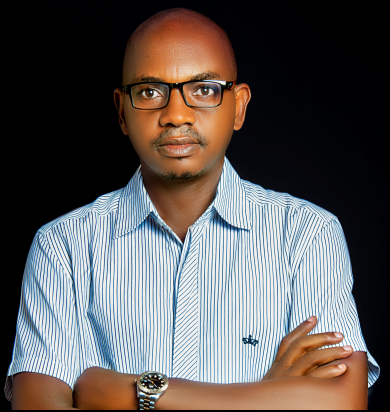
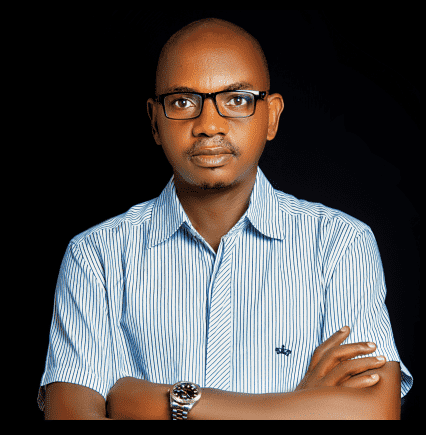
updated

diff --git a/index.html b/index.html
@@ -3,10 +3,11 @@
 <head>
     <meta charset="utf-8">
     <meta name="viewport" content="width=device-width,initial-scale=1.0">
-    <title>WDD 131 - Dynamic Web Fundamentals -<p style="color:yellow;">Charles Hemedi</p></title>
+    <title>WDD 131 - Dynamic Web Fundamentals -Charles Hemedi</title>
     <meta name="description" content="WDD 131 - Dynamic Web Fundamentals-Charles Hemedi">
     <meta name="author" content="Charles Hemedi">
     <link rel="stylesheet" href="styles/base.css">
+    <script src="scripts/getdates.js" defer></script>
 </head>
 <body>
 
@@ -26,7 +27,7 @@
     <main>
         <div class="container">
               <div id="section">
-                <Section class="card">
+                <section class="card">
                     <h2>About me</h2>
                     <div class="part1">
                     <img src="images/wdd131.png" width="150" height="150" alt="my-profile">
@@ -36,6 +37,7 @@
                     </div>
                     <div class="part2">
                     <h3>Charles, Burundi</h3>
+                    <hr>
                     <img src="images/flag.png" width="150" height="150" alt="my-profile">
                 </div>
                    
@@ -43,11 +45,11 @@
                         magni in minus illum doloremque consectetur omnis unde autem libero 
                         tenetur nostrum amet? Numquam dolores praesentium earum sunt consequatur ducimus?</p>
                 
-                </Section>
+                </section>
                 
             </div>
               <div id="section1">
-                    <Section class="card1">
+                    <section class="card1">
                         <h2>Web Dev Tools</h2>
                         <ul>
                             <li><a href="#">Dev.to Community</a></li>
@@ -58,7 +60,7 @@
                             <li><a href="#">Lorem Picsum Image Placeholder</a></li>
                         </ul>
                        
-                    </Section>
+                    </section>
               </div
 
         </div>
@@ -66,8 +68,9 @@
     </main>
 
     <footer class="footer">
-        <p>&#169 <span id="currentyear"></span> Charles Hemedi-Burundi</p>
+        <p><span id="copyrightYear"></span>  &#9733;Charles Hemedi &#9733;Burundi</p>
         <p id="lastModified"></p>
+        <p id="lastModifiedDate"></p>
     </footer>
 
 

diff --git a/styles/base.css b/styles/base.css
@@ -1,7 +1,32 @@
+@import url("https://fonts.googleapis.com/css2?family=Fondamento:ital@0;1&family=Roboto+Mono:ital,wght@0,100..700;1,100..700&family=Tangerine:wght@400;700&display=swap");
+@import url("https://fonts.googleapis.com/css2?family=Quicksand:wght@300..700&display=swap");
+
+:root {
+  --primary-color: #381d2a;
+  --secondary-color: #396e94;
+  --accent1-color: #a43312;
+  --accent2-color: #e7c24f;
+
+  --heading-font: "Quicksand", serif;
+  --paragraph-font: "Muli", serif;
+
+  --nav-background-color: #283618;
+  --nav-link-color: #606c38;
+  --nav-hover-link-color: #1d3557;
+  --nav-hover-background-color: #e5e5e5;
+}
+
 body {
   box-sizing: border-box;
-  max-width: 1000px;
+  max-width: 900px;
   text-align: center;
+  /* font-family: "Fondamento", cursive; */
+  /* font-weight: 400; */
+  /* font-style: normal; */
+  font-family: "Quicksand", sans-serif;
+  font-optical-sizing: auto;
+  font-weight: 400;
+  font-style: normal;
 }
 header {
   background-color: #2596be;
@@ -23,7 +48,7 @@ header nav {
   display: grid;
   grid-template-columns: 1fr 1fr;
   grid-template-row: 1fr;
-  max-width: 1000px;
+  max-width: 900px;
   margin: 10px;
   background: white;
   box-shadow: 0 2px 10px rgba(0, 0, 0, 0.1);
@@ -42,7 +67,7 @@ header nav {
 }
 .card img {
   width: 80px;
-  height: 90px;
+  height: 120px;
   margin-right: 20px;
 }
 .footer {
@@ -66,8 +91,8 @@ header nav {
   float: left;
   padding: 10px;
   margin-left: 50px;
-  width: 70px;
-  height: 80px;
+  width: 80px;
+  height: 120px;
   border-bottom: 20px;
 }
 .card > .part1 {
@@ -93,4 +118,18 @@ header nav {
   border-radius: 8px;
   padding: 7px;
   margin-bottom: 80px;
+}
+header nav a {
+  display: block;
+  color: var(--nav-hover-background-color);
+  text-decoration: none;
+  padding: 1rem;
+}
+header nav a:hover {
+  color: var(--nav-hover-link-color);
+  background-color: var(--nav-hover-background-color);
+}
+header nav a:link,
+nav a:visited {
+  color: var(--nav-hover-background-color);
 }

diff --git a/scripts/getdates.js b/scripts/getdates.js
@@ -1,0 +1,19 @@
+
+function displayCurrentYear() {
+    const currentYear = new Date().getFullYear();
+    document.getElementById('currentYear').textContent = currentYear;
+}
+
+// Call the function when the document is loaded
+window.onload = displayCurrentYear;
+
+
+// Get the current year
+const currentYear = new Date().getFullYear();
+
+// Get the last modified date
+const lastModifiedDate = document.lastModified;
+
+// Update the HTML elements with the dynamic content
+document.getElementById("copyrightYear").textContent = `© ${currentYear}`;
+document.getElementById("lastModifiedDate").textContent = `Last modification: ${lastModifiedDate}`;
